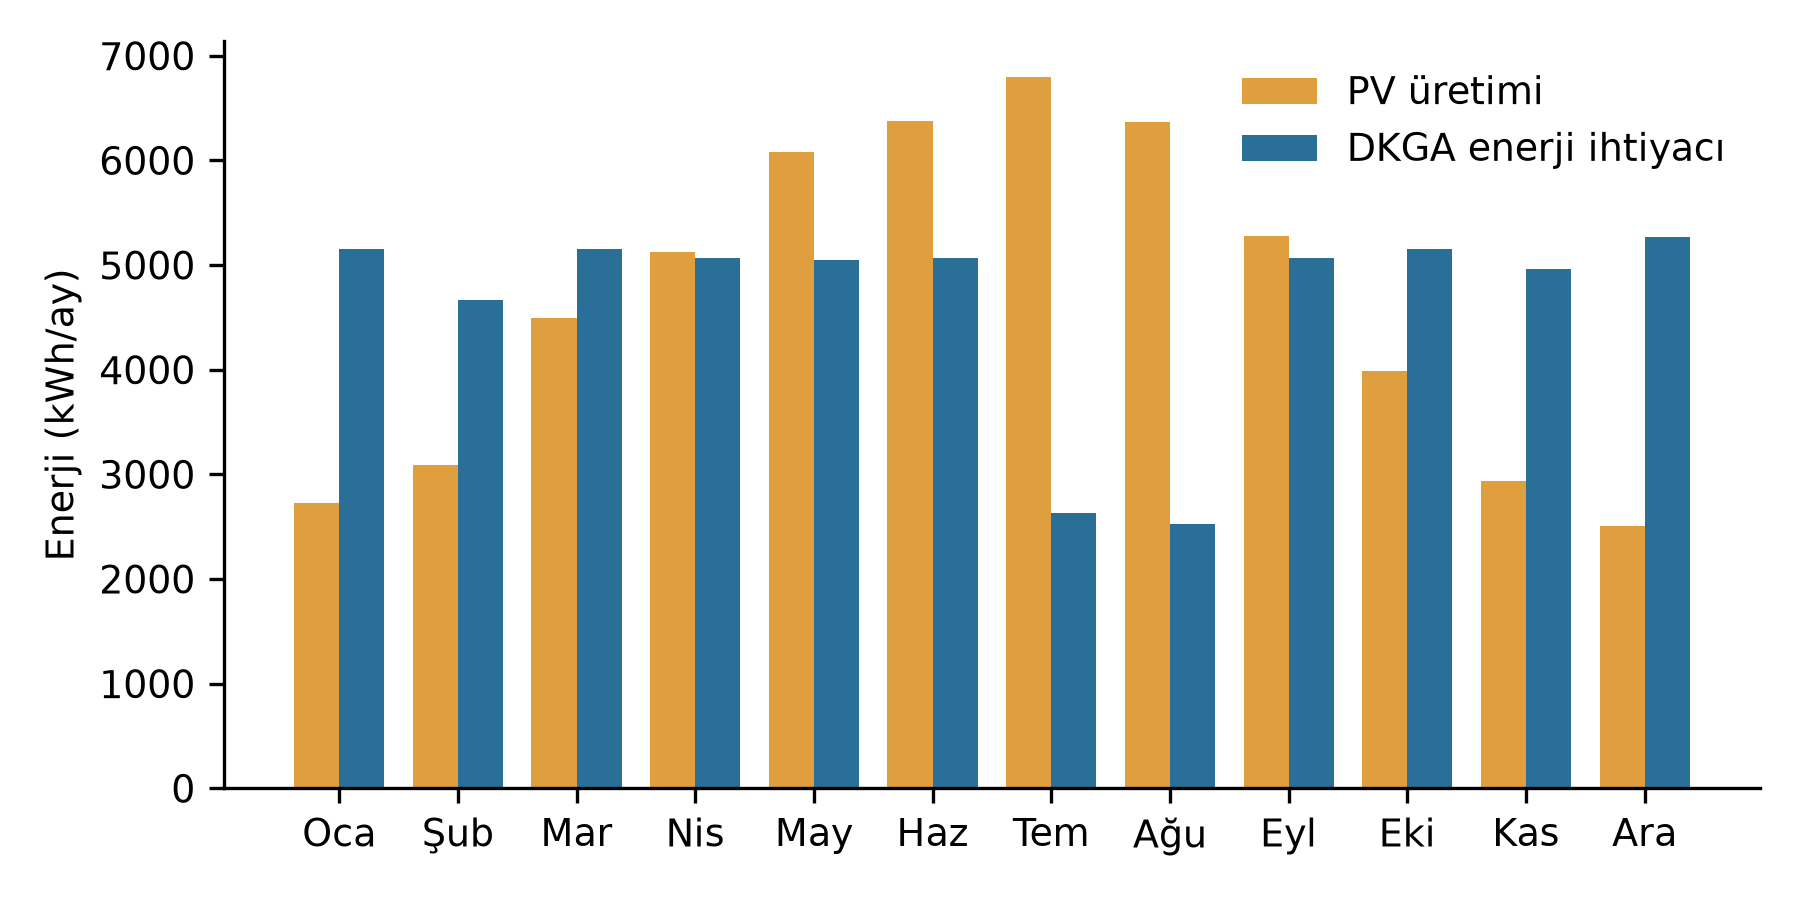
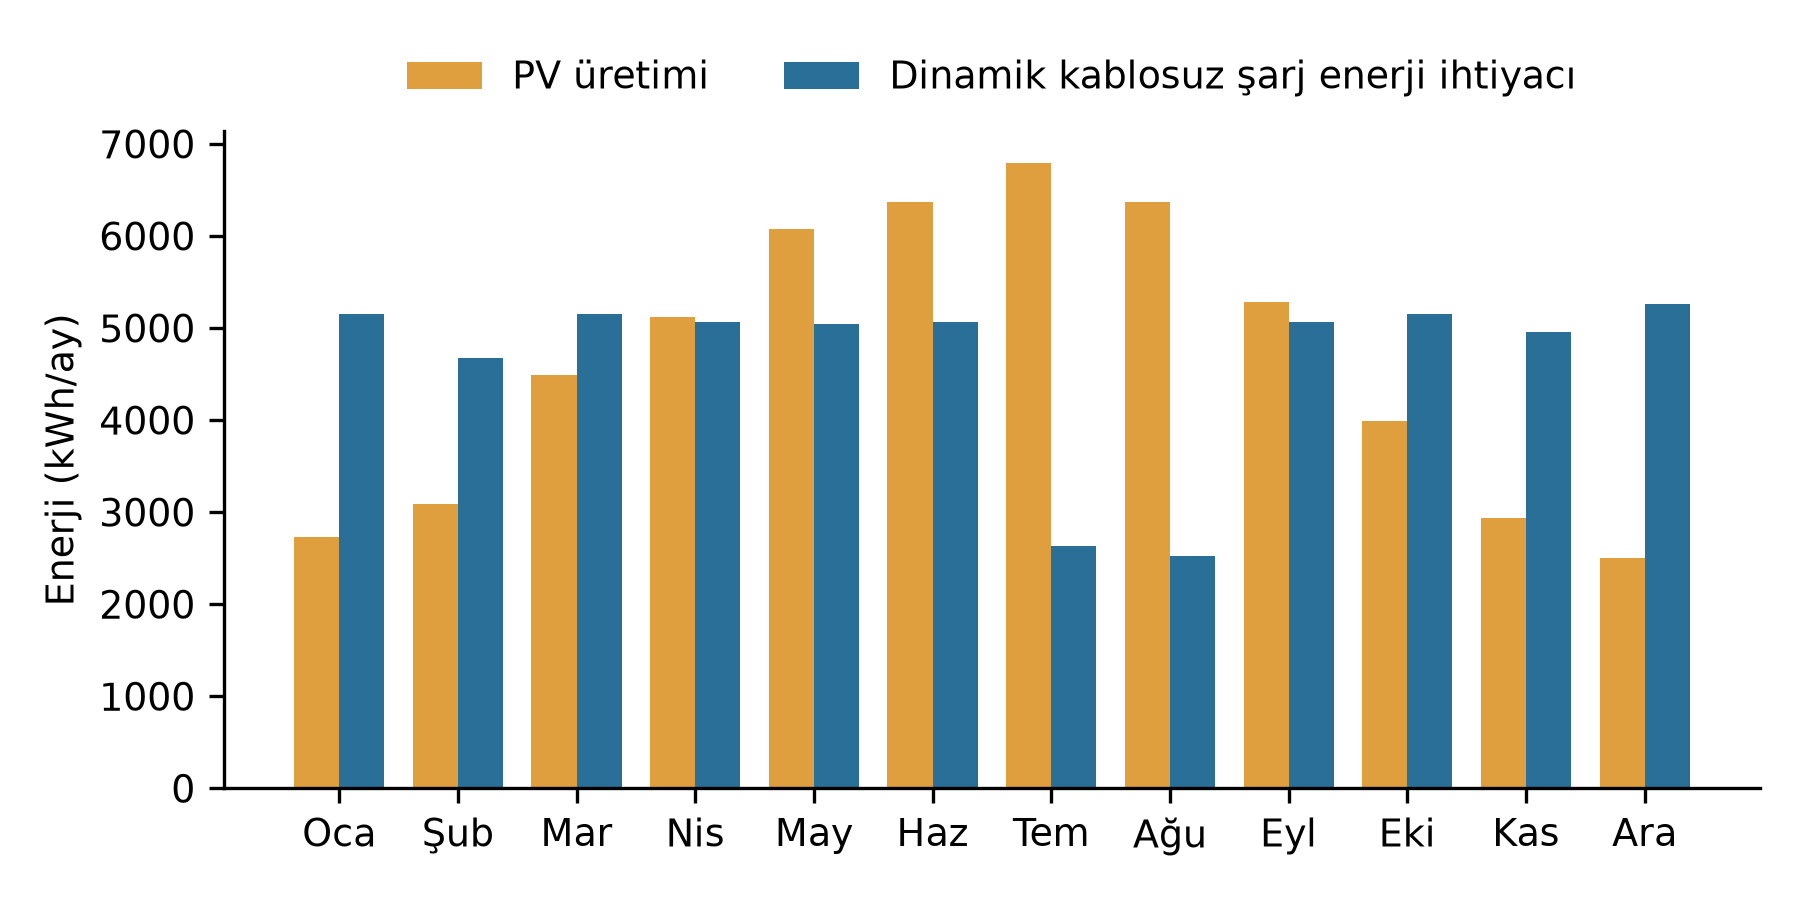
Use plain terms in figure labels and README
Figure labels now follow the wording of the paper: "PV karşılama oranı"
(self-sufficiency), "gerekli PV gücü" (required PV size, formerly annual
net-zero size) and "depolama" (storage, a stationary battery next to the
PV system). The English labels and README use DWC instead of DWPT.
The monthly figure legend moves above the plot so it no longer covers the
July bar. results.json is unchanged.

diff --git a/model.py b/model.py
@@ -19,17 +19,17 @@ os.makedirs(args.out, exist_ok=True)
 SUF = "" if args.lang == "en" else "_tr"
 outpath = lambda name: os.path.join(args.out, name)
 L = {
-    "en": dict(months3=[(3, "March"), (6, "June"), (12, "December")], pv_supply="PV supply", demand="DWPT demand",
+    "en": dict(months3=[(3, "March"), (6, "June"), (12, "December")], pv_supply="PV supply", demand="DWC energy demand",
                hour="Hour of day", e_hour="Energy (kWh/h)", pv_gen="PV generation",
                months=["J","F","M","A","M","J","J","A","S","O","N","D"], e_month="Energy (kWh/month)",
-               bat=lambda n: "No storage" if n == 0 else f"Stationary battery = {n}% of mean daily demand",
-               pv_size="PV size / annual net-zero size (–)", ss="Self-sufficiency (%)"),
-    "tr": dict(months3=[(3, "Mart"), (6, "Haziran"), (12, "Aralık")], pv_supply="PV üretimi", demand="DKGA enerji ihtiyacı",
+               bat=lambda n: "No storage" if n == 0 else f"Storage = {n}% of mean daily demand",
+               pv_size="PV size / required PV size (–)", ss="Share of demand met by PV (%)"),
+    "tr": dict(months3=[(3, "Mart"), (6, "Haziran"), (12, "Aralık")], pv_supply="PV üretimi", demand="Dinamik kablosuz şarj enerji ihtiyacı",
                hour="Günün saati", e_hour="Enerji (kWh/sa)", pv_gen="PV üretimi",
                months=["Oca","Şub","Mar","Nis","May","Haz","Tem","Ağu","Eyl","Eki","Kas","Ara"], e_month="Enerji (kWh/ay)",
                bat=lambda n: "Depolama yok" if n == 0 else
-                   f"Sabit batarya = ortalama günlük ihtiyacın %{n}" + {25: "'i", 50: "'si", 100: "'ü"}[n],
-               pv_size="PV gücü / net sıfır PV gücü (–)", ss="Öz yeterlilik (%)"),
+                   f"Depolama = ortalama günlük ihtiyacın %{n}" + {25: "'i", 50: "'si", 100: "'ü"}[n],
+               pv_size="PV gücü / gerekli PV gücü (–)", ss="PV karşılama oranı (%)"),
 }[args.lang]
 
 P = dict(
@@ -151,7 +151,7 @@ x = np.arange(12); w = .38
 ax.bar(x - w/2, mon.pv, w, color=C2, label=L["pv_gen"])
 ax.bar(x + w/2, mon.d, w, color=C1, label=L["demand"])
 ax.set_xticks(x, L["months"]); ax.set_ylabel(L["e_month"])
-ax.legend(frameon=False); ax.spines[["top","right"]].set_visible(False)
+ax.legend(frameon=False, loc="lower center", bbox_to_anchor=(0.5, 1.0), ncol=2); ax.spines[["top","right"]].set_visible(False)
 fig.tight_layout(); fig.savefig(outpath(f"fig2_monthly{SUF}.png"), dpi=300)
 # Fig3 sensitivity
 fig, ax = plt.subplots(figsize=(5, 3.2))

diff --git a/README.md b/README.md
@@ -1,7 +1,7 @@
 # pv-dwpt-campus
 
 Hourly, year-long comparison of photovoltaic (PV) generation with the energy required by a
-dynamic wireless power transfer (DWPT) system for electric vehicles on a university campus
+dynamic wireless charging (DWC) system for electric vehicles on a university campus
 (Marmara University, Göztepe Campus, Istanbul).
 
 This repository contains the model behind the conference paper
@@ -32,9 +32,9 @@ Outputs are written to `results/` (change with `--out`):
 | File | Content |
 |---|---|
 | `results.json` | All inputs and all numerical results |
-| `fig1_profiles.png` | Mean weekday PV generation and DWPT energy demand in March, June and December |
-| `fig2_monthly.png` | Monthly PV generation and DWPT energy demand for the annual net-zero PV size |
-| `fig3_sensitivity.png` | Self-sufficiency versus PV size and battery capacity |
+| `fig1_profiles.png` | Mean weekday PV generation and DWC energy demand in March, June and December |
+| `fig2_monthly.png` | Monthly PV generation and DWC energy demand for the required PV size |
+| `fig3_sensitivity.png` | Share of demand met by PV (self-sufficiency) versus PV size and storage capacity |
 
 `--lang` only changes the figure labels. The numerical results do not depend on it.
 `--sky` selects the model that converts horizontal irradiance to the tilted PV plane
@@ -43,7 +43,7 @@ With these three models the self-sufficiency results differ by at most about one
 
 ## What the model does
 
-1. **DWPT energy demand.** The energy delivered to vehicles in a published SUMO scenario is
+1. **DWC energy demand.** The energy delivered to vehicles in a published SUMO scenario is
    divided by the number of vehicles and the transfer efficiency, which gives the grid-side
    energy per vehicle passage. This is multiplied by the number of vehicles in each hour of the
    year and by the EV share.
@@ -58,14 +58,15 @@ With these three models the self-sufficiency results differ by at most about one
    is closest to the value implied by the published yield and performance ratio
    (1,311 / 0.812 ≈ 1,615 kWh/m²).
 3. **Hourly matching.** Demand and generation are compared hour by hour over 8,760 hours, with
-   and without a battery. Surplus PV charges the battery first and is exported afterwards;
-   deficits are drawn from the battery first and from the grid afterwards.
+   with and without storage (a stationary battery next to the PV system; vehicle batteries are
+   not modelled). Surplus PV charges the storage first and is exported afterwards; deficits are
+   drawn from the storage first and from the grid afterwards.
 4. **Sensitivity analysis.** Thirty synthetic years are generated in which each day's PV output is
    scaled by a random factor while monthly totals are kept unchanged.
 
 Reported indicators: annual energy demand, the PV size whose annual output equals annual demand
-("annual net-zero" size), self-sufficiency (share of demand met by PV, directly or through the
-battery) and self-consumption (share of PV output used by the DWPT system).
+("required PV size"), self-sufficiency (share of demand met by PV, directly or through the
+storage) and self-consumption (share of PV output used by the DWC system).
 
 ## Inputs and their sources
 
@@ -97,7 +98,7 @@ study and are stated here so that they can be replaced with measured data.
 | EV share scenarios | 10, 25, 50, 100% |
 | PV tilt / azimuth | 30° / south |
 | Panel area per unit capacity | 5.0 m²/kWp |
-| Battery round-trip efficiency / depth of discharge | 90% / 90% |
+| Storage (stationary battery) round-trip efficiency / depth of discharge | 90% / 90% |
 | Daily coefficient of variation of PV output in the sensitivity analysis | 0.45 (winter) to 0.12 (summer), by month |
 
 Further simplifications: the energy per vehicle comes from a single 600-s peak-hour SUMO
@@ -150,3 +151,7 @@ python model.py --lang tr
 
 Saatlik trafik profili ile hafta sonu ve yaz tatili katsayıları ölçüme değil varsayıma
 dayanmaktadır; tüm varsayımlar yukarıdaki "Assumptions" tablosunda listelenmiştir.
+
+Bildiride kullanılan Türkçe terimler: *PV karşılama oranı* (self-sufficiency, öz yeterlilik),
+*yerinde kullanım oranı* (self-consumption, öz tüketim), *gerekli PV gücü* (yıllık üretimi yıllık
+ihtiyaca eşit olan PV gücü) ve *depolama* (PV sisteminin yanına kurulan sabit batarya).
